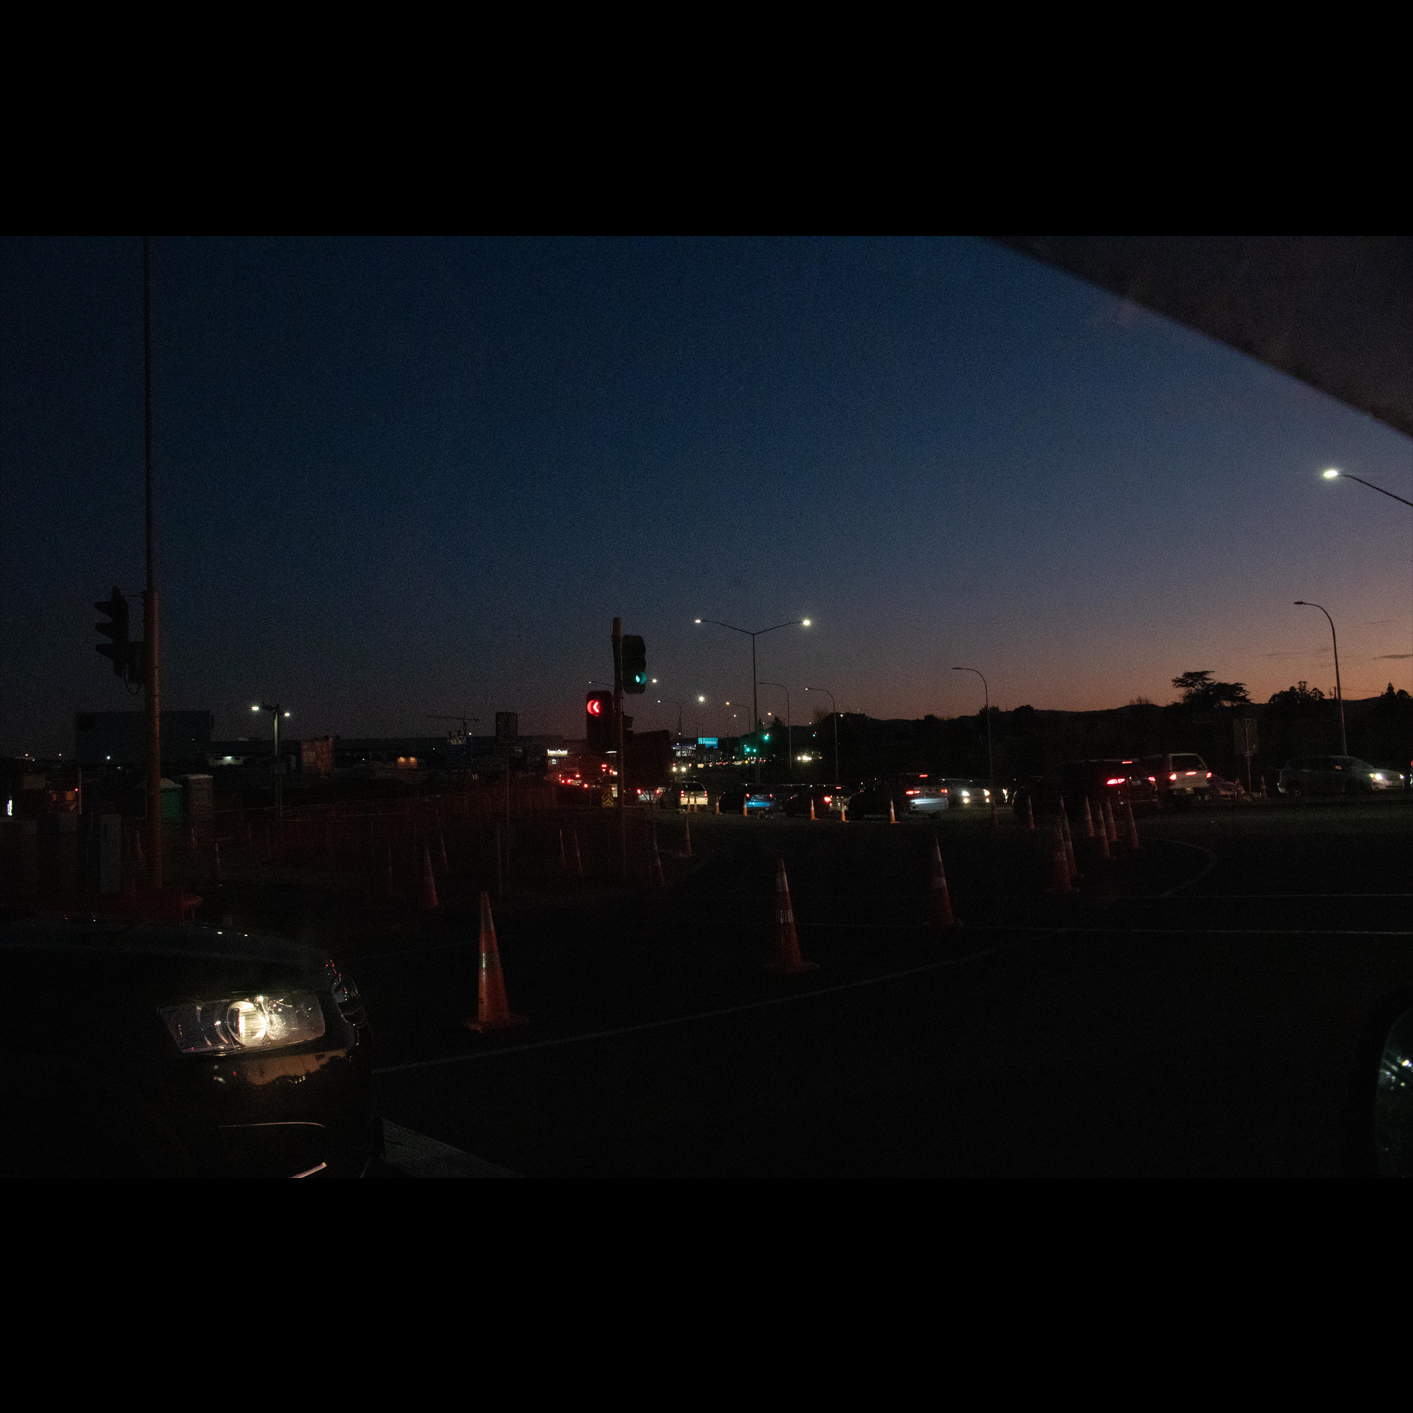
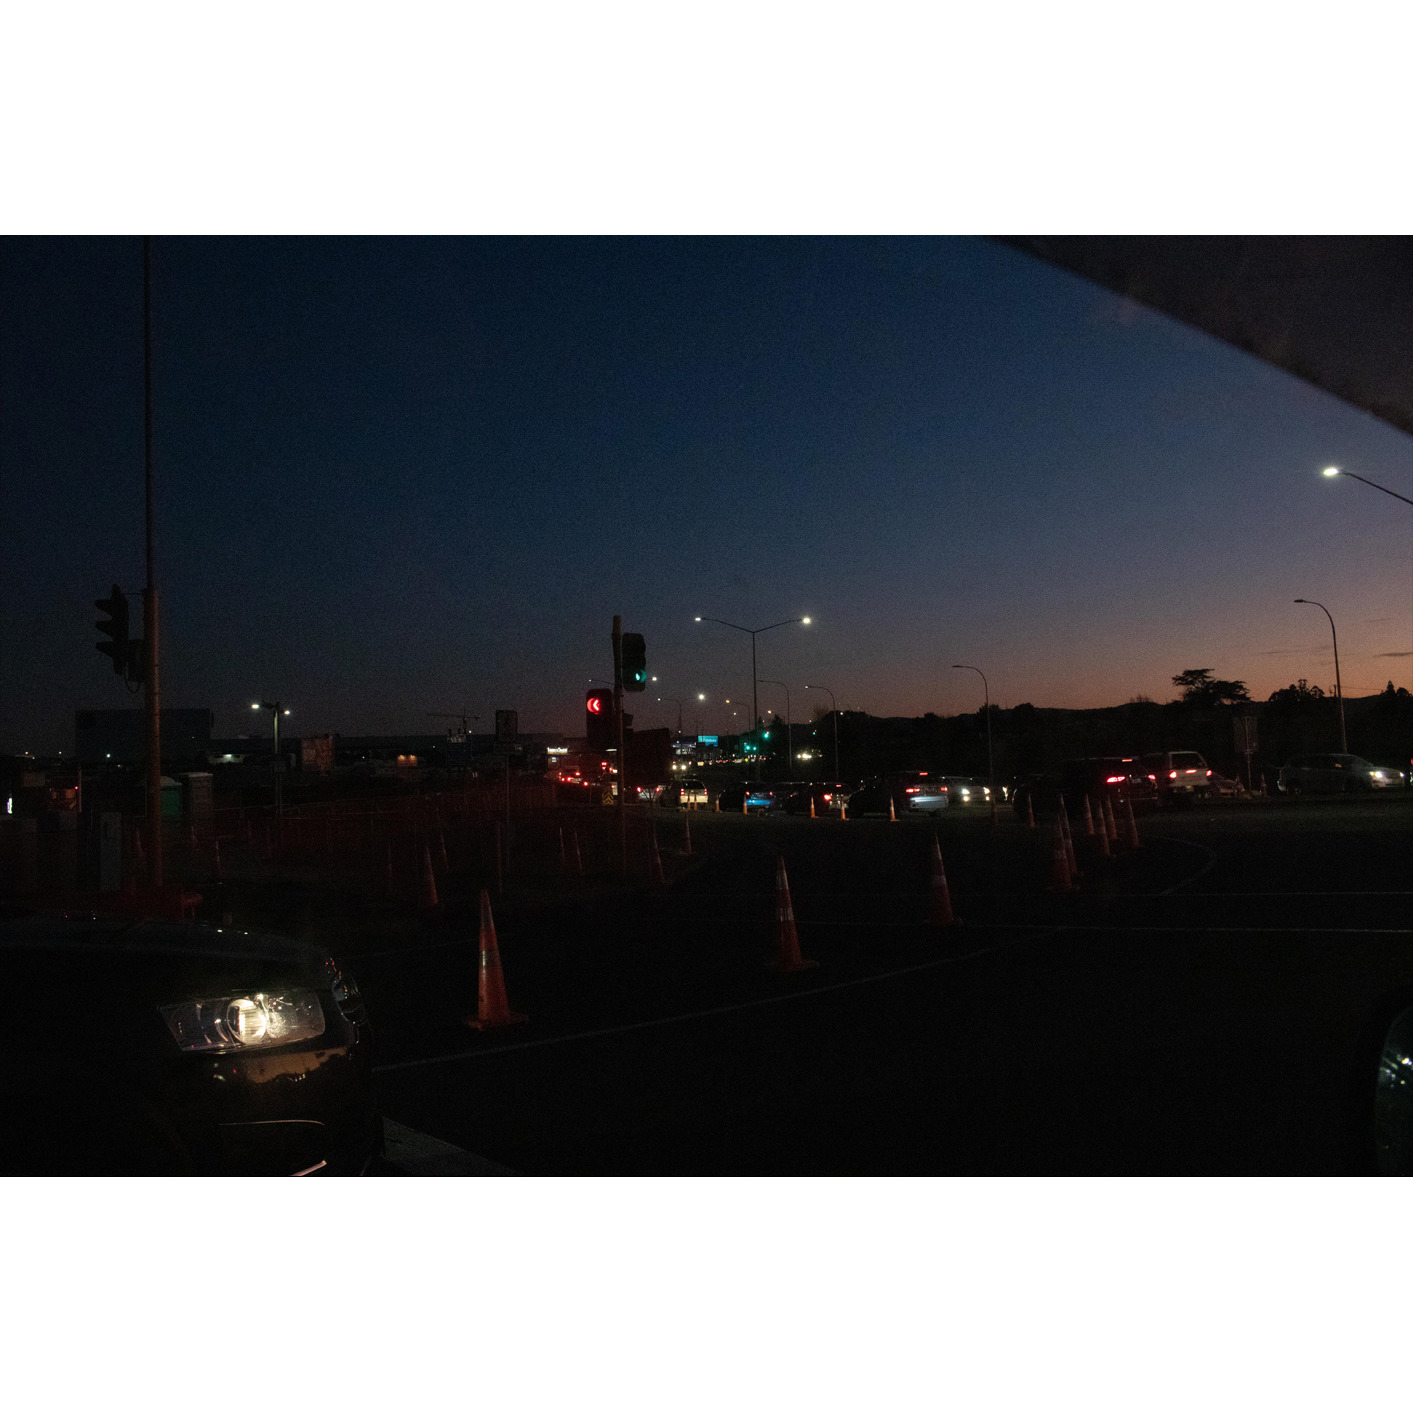
1.02
Minor Images changes and a typo correction

diff --git a/index.html b/index.html
@@ -60,7 +60,7 @@
 										</div>
 										<div class="col-4 col-6-medium col-12-small">
 											<a href="https://open.spotify.com/show/54qS4VR14dJizxjvqaedkZ" class="image fit"><img src="images/pic03.jpg" alt=""></a>
-											<p> Podcas Logotype</p>
+											<p> Podcast Logotype</p>
 										</div>
 										<div class="col-4 col-6-medium col-12-small">
 											<a href="#" class="image fit"><img src="images/pic06.jpg" alt=""></a>
